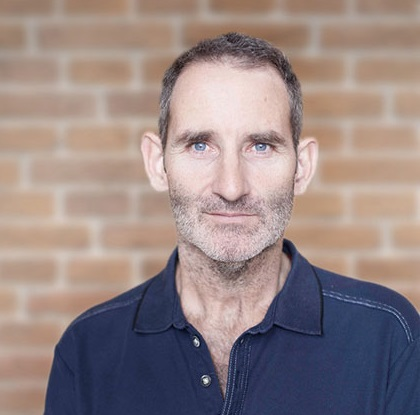
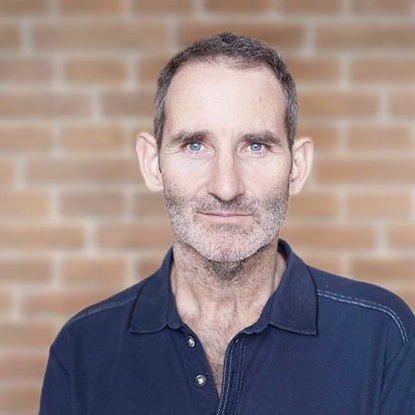
Add Alex Tilley to speakers

diff --git a/index.html b/index.html
@@ -808,6 +808,43 @@
               </div>
             </div>
           </div>
+          <div class="col-6 col-lg-3 mb-4">
+            <div class="card rounded-0">
+              <a
+                href="#modal-speaker-16"
+                data-bs-toggle="modal"
+                data-bs-target="#modal-speaker-16"
+                ><img
+                  src="assets/images/speakers/alex_tilley.jpg"
+                  class="card-img-top rounded-0"
+                  alt=""
+              /></a>
+              <div class="card-body">
+                <h5 class="card-title mb-2">Alex Tilley</h5>
+                <div class="card-text mb-3">
+                  <div class="meta">
+                    APAC Intelligence and Research Head
+                  </div>
+                  <div class="meta">Secureworks</div>
+                </div>
+                <a
+                  href="#modal-speaker-16"
+                  data-bs-toggle="modal"
+                  data-bs-target="#modal-speaker-16"
+                  >Read more &rarr;</a
+                >
+              </div>
+              <div class="card-footer text-muted">
+                <ul class="social-list list-inline mb-0">
+                  <li class="list-inline-item">
+                    <a href="https://www.linkedin.com/in/alex-tilley-440b992/"
+                      ><i class="fab fa-linkedin-in fa-fw"></i
+                    ></a>
+                  </li>
+                </ul>
+              </div>
+            </div>
+          </div>
         </div>
         <div class="speakers-cta text-center py-3">
           <a
@@ -2861,7 +2898,7 @@
             >
               &times;
             </button>
-            <h4 id="speaker-16-ModalLabel" class="modal-title sr-only">
+            <h4 id="speaker-15-ModalLabel" class="modal-title sr-only">
               Alex Tilley
             </h4>
           </div>
@@ -2878,7 +2915,9 @@
 
                 <div class="col text-center text-md-start mx-auto">
                   <h2 class="name mb-2">Alex Tilley</h2>
-                  <div class="meta">APAC Intelligence and Research Head - Counter Threat Unit</div>
+                  <div class="meta">
+                    APAC Intelligence and Research Head
+                  </div>
                   <div class="meta">Secureworks</div>
                   <ul class="social-list list-inline mb-0">
                     <li class="list-inline-item">
@@ -2895,6 +2934,20 @@
             </div>
             <div class="desc p-4 p-lg-5">
               <div class="meta">
+                With well over 20 years of experience in computer security and
+                cyber-crime, Alex Tilley is a highly awarded cyber-crime
+                researcher. Alex was on the forefront of research and
+                countermeasures when phishing and malware first began to attack
+                banking platforms and their customers.
+              </div>
+              <br />
+              <div class="meta">
+                With that background, Alex became the Australian Federal
+                Police's senior cyber-crime technical analyst where he combined
+                his technical background with an analytical approach to the
+                “who” and “why” of the cyber-crime fight. This work resulted is
+                many successful investigations in the cyber-crime and child
+                protection space.
               </div>
             </div>
           </div>
